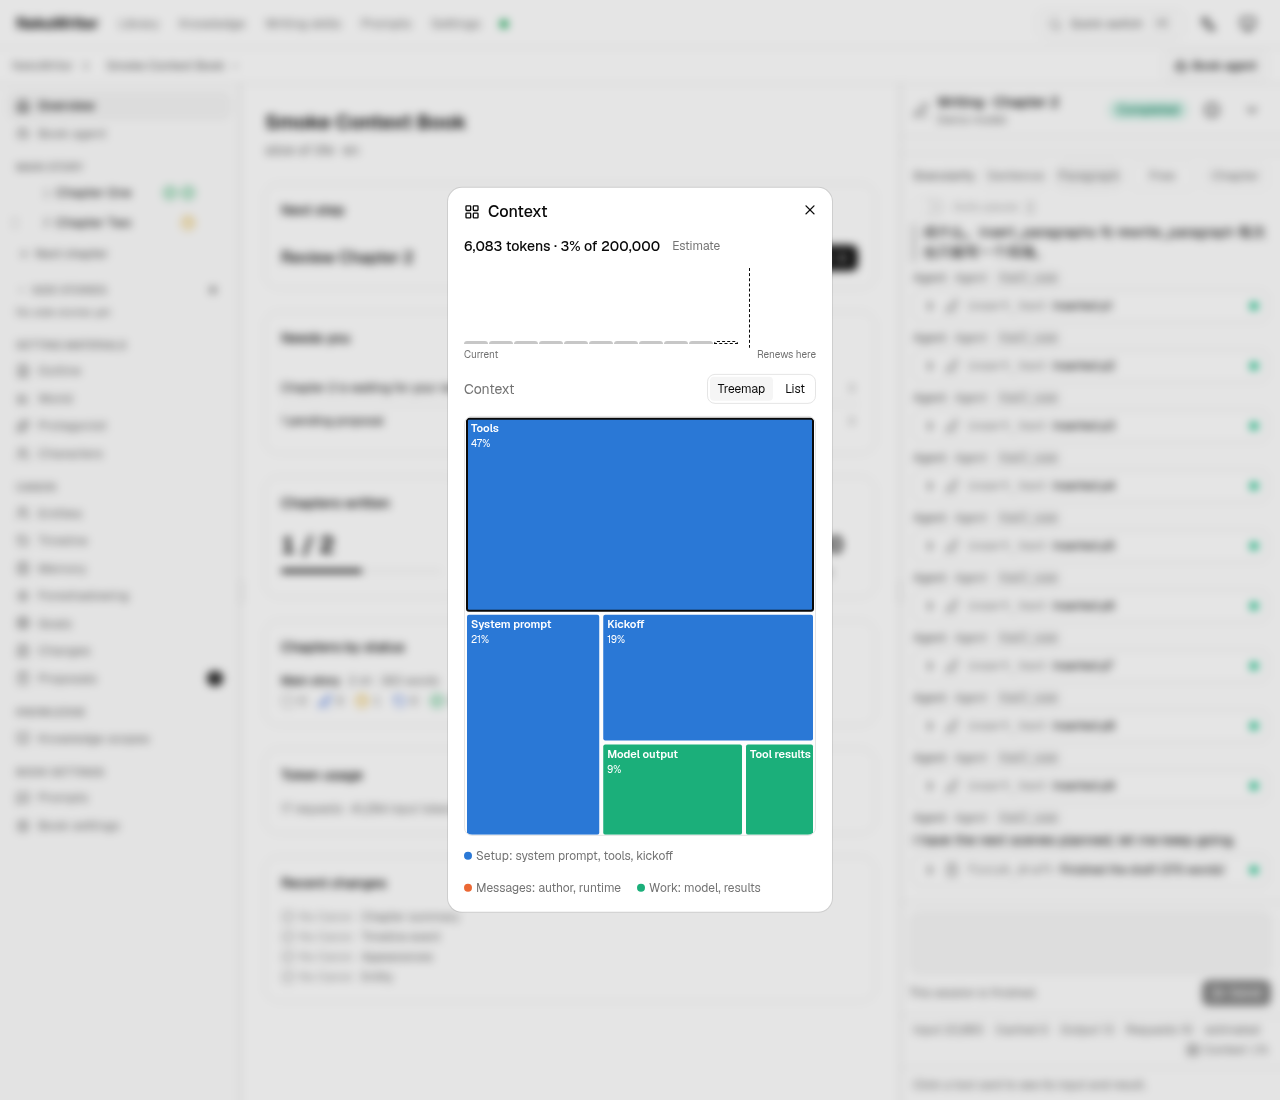
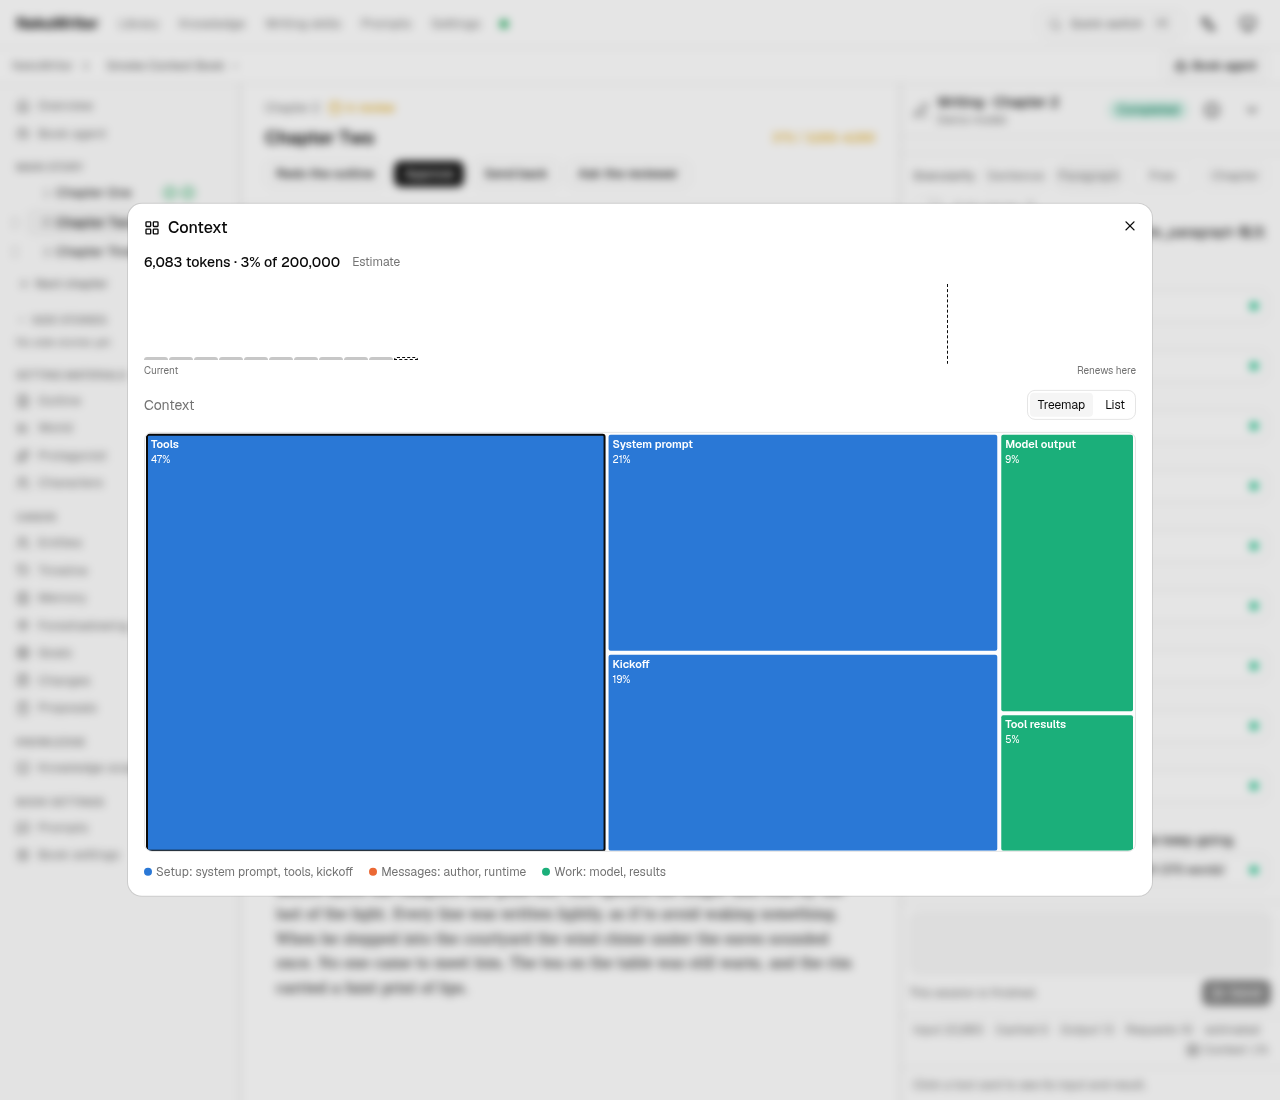
fix(web): widen the context dialog and contain the treemap (M23 23.4 review)
Use sm:max-w-5xl and a min-w-0 wrapper so the dialog is 1024px at 1280px and the SVG cannot force a 1000px track; add width/containment assertions and recapture the smoke screenshots.

diff --git a/web/src/features/agent/context/ContextDialog.tsx b/web/src/features/agent/context/ContextDialog.tsx
@@ -49,7 +49,10 @@ export function ContextDialog({
 
   return (
     <Dialog open={open} onOpenChange={onOpenChange}>
-      <DialogContent className="max-w-5xl" onEscapeKeyDown={(event) => {
+      <DialogContent
+        data-testid="context-dialog"
+        className="w-full max-w-[calc(100%-2rem)] min-w-0 sm:max-w-5xl"
+        onEscapeKeyDown={(event) => {
         if (zoom.part !== null) {
           event.preventDefault()
           setZoom({ group: zoom.group, part: null })
@@ -69,7 +72,7 @@ export function ContextDialog({
         ) : query.isError || data === undefined || data === null ? (
           <div className="py-10 text-center text-sm text-muted-foreground">{t("agent:context.empty")}</div>
         ) : (
-          <div className="space-y-3">
+          <div data-testid="context-scroll" className="min-w-0 space-y-3">
             <div className="flex flex-wrap items-center gap-x-3 gap-y-1 text-sm">
               <span className="font-medium">
                 {t("agent:context.header.tokens", { ns: "agent", estimate: formatNumber(displayTokens, i18n.language), percent, window: formatNumber(data.context_window, i18n.language) })}

diff --git a/web/src/features/agent/context/contextDialog.test.tsx b/web/src/features/agent/context/contextDialog.test.tsx
@@ -52,3 +52,11 @@ describe("ContextDialog", () => {
     expect(screen.queryByText("› From the author")).not.toBeInTheDocument()
   })
 })
+
+  it("uses the wide sm dialog width and keeps the treemap inside a min-w-0 wrapper", () => {
+    render(<ContextDialog sessionId={7} open onOpenChange={vi.fn()} />)
+    expect(screen.getByTestId("context-dialog")).toHaveClass("sm:max-w-5xl")
+    expect(screen.getByTestId("context-scroll")).toHaveClass("min-w-0")
+    expect(screen.getByTestId("context-treemap")).toHaveClass("min-w-0", "max-w-full")
+    expect(screen.getByTestId("context-treemap").querySelector("svg")).toHaveClass("max-w-full")
+  })

diff --git a/web/src/features/agent/context/ContextTreemap.tsx b/web/src/features/agent/context/ContextTreemap.tsx
@@ -144,10 +144,11 @@ export function ContextTreemap({
       role="group"
       tabIndex={0}
       aria-label={t("agent:context.title")}
-      className="relative h-[420px] w-full overflow-hidden rounded-md border bg-muted/20 outline-none focus-visible:ring-2 focus-visible:ring-ring"
+      className="relative h-[420px] w-full min-w-0 max-w-full overflow-hidden rounded-md border bg-muted/20 outline-none focus-visible:ring-2 focus-visible:ring-ring"
       onKeyDown={onKeyDown}
     >
       <svg
+        className="block max-w-full"
         width="100%"
         height="420"
         viewBox={`0 0 ${width} 420`}

diff --git a/web/src/features/agent/context/ContextList.tsx b/web/src/features/agent/context/ContextList.tsx
@@ -62,7 +62,7 @@ function ContextPartRows({ group, part, view, index }: { group: ContextGroupDto[
 export function ContextList({ view }: { view: ContextBreakdownDto }) {
   const { t } = useTranslation()
   return (
-    <div className="max-h-[420px] overflow-auto rounded-md border">
+    <div className="min-w-0 max-h-[420px] overflow-auto rounded-md border">
       <table className="w-full border-collapse text-sm">
         <thead className="sticky top-0 bg-background">
           <tr className="text-left text-xs text-muted-foreground">
